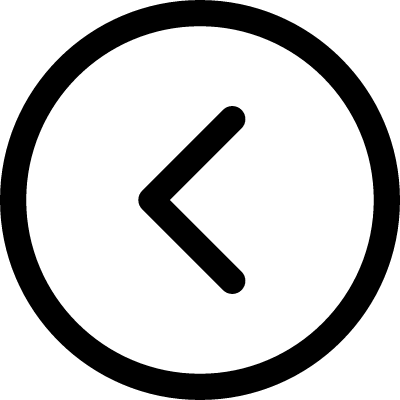
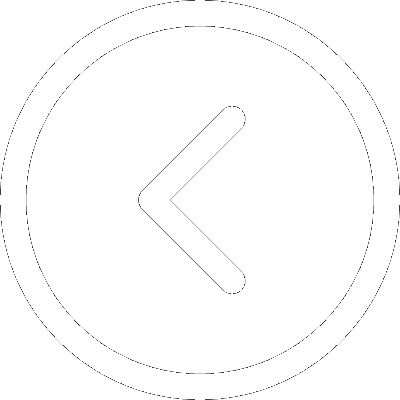
okay now i finished love

Changed region(s): [[0.0, 0.0, 1.0, 1.0], [0.33, 0.27, 0.63, 0.75]]

diff --git a/css/main.css b/css/main.css
@@ -545,7 +545,7 @@ h2 {
     float: left;
     width: 150px;
     height: 140px;
-    margin-right: 1px;
+    margin-right: 20px;
 }
 
 .jcarousel img {
@@ -559,22 +559,23 @@ h2 {
 
 /** Carousel Controls **/
 
-.jcarousel-control-prev,
-.jcarousel-control-next {
+.jcarousel-control-prev img,
+.jcarousel-control-next img {
     position: absolute;
     text-align: center;
     background: none;
     color: white;
     text-decoration: none;
-    font: 60px/63px Arial, sans-serif;
+    top: 280px;
+    height: 30px;
 }
 
 .jcarousel-control-prev {
-    margin: 20px auto;
+    margin: 40px auto;
 }
 
 .jcarousel-control-next {
-    margin: 20px;
+    margin: 40px;
 }
 
 .jcarousel-control-prev:hover span,
@@ -591,7 +592,7 @@ h2 {
     position: relative;
     top: 20px;
     font-family: 'Open Sans', 'Trebuchet MS', 'Arial';
-    font-size: 70px;
+    font-size: 90px;
     color: white;
     font-stretch: ultra-condensed;
     font-weight: 100;

diff --git a/play/index.html b/play/index.html
@@ -89,8 +89,8 @@ title: Work
                     </ul>
                 </div>
                 <div class="image-caption"></div>
-                <a href="#" class="jcarousel-control-prev" data-jcarouselcontrol="true">‹</a>
-                <a href="#" class="jcarousel-control-next inactive" data-jcarouselcontrol="true">›</a>
+                <a href="#" class="jcarousel-control-prev" data-jcarouselcontrol="true"><img src="/assets/images/love-left.png"></a>
+                <a href="#" class="jcarousel-control-next inactive" data-jcarouselcontrol="true"><img src="/assets/images/love-right.png"></a>
             </div>
         </section>
 
